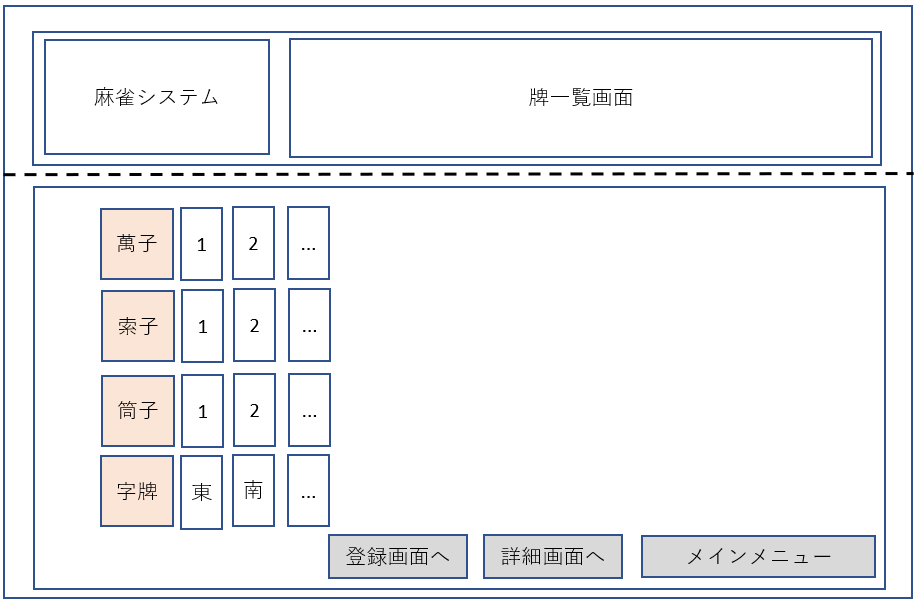
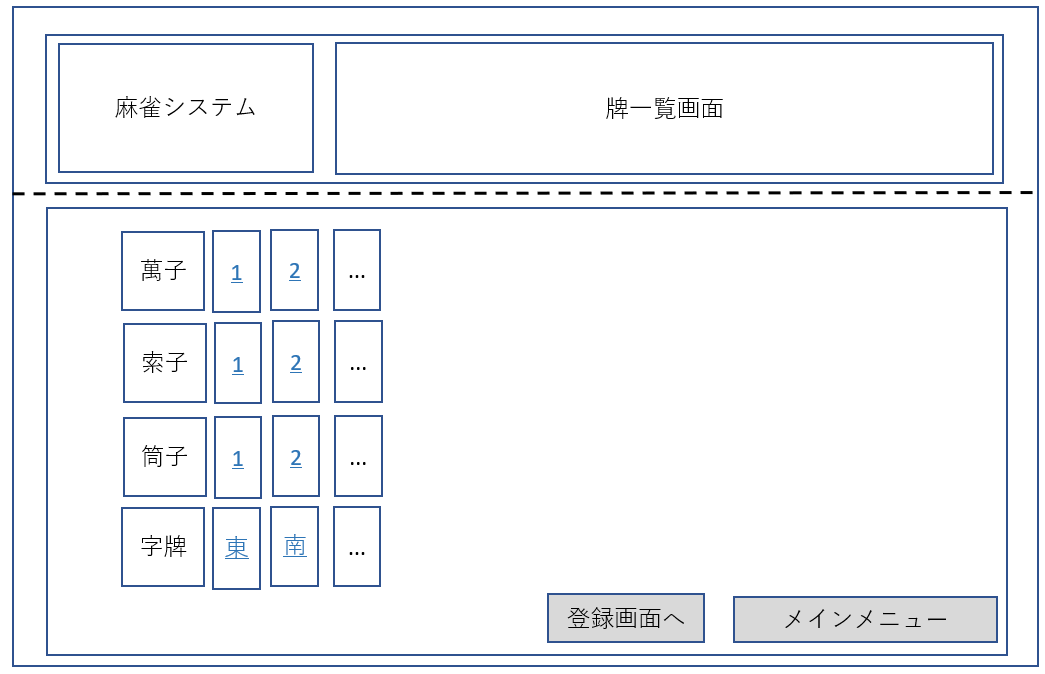
Issue#3、Issue#4 指摘修正。

Changed region(s): [[0.0, 0.0, 1.0, 1.0], [0.5776, 0.1192, 0.6992, 0.1788], [0.0912, 0.149, 0.2432, 0.1788]]

diff --git a/document/画面設計書.md b/document/画面設計書.md
@@ -2,6 +2,7 @@
 ### 目的 
 　麻雀システムの画面の機能について記述する。
 
+
 ### 変更履歴
 |更新年月日|更新内容|版数|
 |--|--|--|
@@ -33,6 +34,7 @@
 * 牌一覧画面  
 ![](牌一覧画面.png)
 
+
 * 牌登録画面  
 ![](牌登録画面.png)
 
@@ -42,47 +44,47 @@
 * 牌変更画面  
 ![](牌変更画面.png)
 
+* 牌登録画面(エラー発生時)  
+※牌変更画面でエラーが発生した場合も同様のレイアウトでエラーメッセージを表示する。
+![](牌変更画面(エラー).png)
+
 ### 画面項目一覧  
 
-|画面名|項目名|html名|形式|I/O|備考|
-|--|--|--|--|--|--|
-|全画面共通|システム名|System_Name|Item|ー|システム名を表示する。"麻雀システム"固定。|
-||画面名|Form_Name|Item|ー|現在表示している画面名を表示する。|
-|メインメニュー|牌一覧|To_PaiList|Button|ー|牌一覧画面を表示する。|
-|牌一覧画面|牌の種類|Pai_Types|Item|ー||
-||牌の種類(データ欄)|Pai_Types_Data|Data|O|牌の種類を表示する。|
-||牌の名前|Pai_Names|Item|ー||
-||牌の名前(データ欄)|Pai_Names_Data|Data|O|牌の名前を表示する。<br>拡張案⇒牌の図と牌コードを結びつけて牌の図を表示する。|
-||登録画面へ|To_PaiRegister|Button|ー|牌登録画面へ移動する。|
-||詳細画面へ|To_PaiDetail|Button|ー|牌詳細画面へ移動する。|
-||メインメニュー|To_MainMenu|Button|ー|メインメニューへ移動する。|
-|牌登録画面|牌の種類|Pai_Types|Item|I||
-||牌の種類(入力欄)|Pai_Types_Data|Data|I|牌の種類を入力する。<br>入力ルール以外を入力した場合、エラーを表示する。|
-||牌コード|Pai_Codes|Item|ー||
-||牌コード(入力欄)|Pai_Codes_Data|Data|I|牌コードを入力する。<br>入力ルール以外を入力した場合、エラーを表示する。|
-||牌の名前|Pai_Names|Item|ー||
-||牌の名前(入力欄)|Pai_Names_Data|Data|I|牌の名前を入力する。<br>入力ルール以外を入力した場合、エラーを表示する。|
-||登録|Register_Buttun|Button|ー|入力した情報をDBへ登録する。<br>牌コードが既に登録されていた場合はエラーを表示する。<br>入力欄が空白の場合はエラーを表示する。|
-|牌詳細画面|牌の種類|Pai_Types|Item|ー||
-||牌の種類(データ欄)|Pai_Types_Data|Data|O|牌の種類を表示する。|
-||牌コード|Pai_Codes|Item|ー||
-||牌コード(データ欄)|Pai_Codes_Data|Data|O|牌のコードを表示する。|
-||牌の名前|Pai_Names|Item|ー||
-||牌の名前(データ欄)|Pai_Names_Data|Data|O|牌の名前を表示する。|
-||削除|Pai_Delete_Button|Button|ー|押下した行の牌データをDBより削除する。|
-||変更|To_PaiAlter|Button|ー|牌変更画面へ移動する。|
-|牌変更画面|牌の種類|Pai_Types|Item|ー||
-||牌の種類(データ欄)|Pai_Types_Data|Data|I/O|牌の種類を入力する。<br>牌詳細画面で押下した行のデータを表示する。<br>入力ルール以外を入力した場合、エラーを表示する。|
-||牌コード|Pai_Codes|Item|ー||
-||牌コード(データ欄)|Pai_Codes_Data|Data|I/O|牌コードを入力する。<br>牌詳細画面で押下した行のデータを表示する。<br>入力ルール以外を入力した場合、エラーを表示する。|
-||牌の名前|Pai_Names|Item|ー||
-||牌の名前(データ欄)|Pai_Names_Data|Data|I/O|牌の名前を入力する。<br>牌詳細画面で押下した行のデータを表示する。<br>入力ルール以外を入力した場合、エラーを表示する。|
-||変更|Register_Button|Button|ー|変更した情報をDBへ登録する。<br>牌の種類毎の牌コードが既に登録されていた場合はエラーを表示する。<br>入力欄が空白の場合はエラーを表示する。|
+|画面名|項目名|項目英名|形式|I/O|必須かどうか|文字種|桁数|備考|
+|--|--|--|--|--|--|--|--|--|
+|全画面共通|システム名|ー|label|ー|ー|ー|10|システム名を表示する。"麻雀システム"固定。|
+||画面名|ー|label|ー|ー|ー|10|現在表示している画面名を表示する。|
+|メインメニュー|牌一覧|toPaiList|button|ー|ー|ー|ー|牌一覧画面を表示する。|
+|牌一覧画面|牌の種類(データ欄)|paiTypesValue|text|O|必須|文字|2|牌の種類を表示する。|
+||牌の名前(データ欄)|paiNamesValue|text|O|必須|文字|2|牌の名前を表示する。<br>詳細画面へのリンクとする。<br>拡張案⇒牌の図(牌のフォント)と牌コードを結びつけて牌の図を表示する。|
+||登録画面へ|toPaiRegister|button|ー|ー|ー|ー|牌登録画面へ移動する。|
+||詳細画面へ|toPaiDetail|button|ー|ー|ー|ー|牌詳細画面へ移動する。|
+||メインメニュー|toMainMenu|button|ー|ー|ー|ー|メインメニューへ移動する。|
+|牌登録画面|牌の種類|ー|label|ー|ー|ー|ー||
+||牌の種類(入力欄)|paiTypesValue|select|I|必須|文字|2|牌の種類を入力する。|
+||牌の名前|ー|label|ー|ー|ー|ー||
+||牌の名前(入力欄)|paiNamesValue|text|I|必須|文字|2|牌の名前を入力する。<br>入力ルール以外を入力した場合、エラーを表示する。|
+||登録|regButtun|button|ー|ー|ー|ー|入力した情報をDBへ登録する。<br>牌の種類が選択されていないまたは<br>牌の名前が空白の場合または牌コードが重複した場合はエラーを表示する。|
+|牌詳細画面|牌の種類|ー|label|ー|ー|ー|ー||
+||牌の種類(データ欄)|paiTypesValue|text|O|必須|文字|2|牌一覧画面で選択した牌の種類を表示する。(readonly)|
+||牌の名前|ー|label|ー|ー|ー|ー||
+||牌の名前(データ欄)|paiNamesValue|text|O|必須|文字|2|牌一覧画面で選択した牌の名前を表示する。(readonly)|
+||削除|delButton|button|ー|ー|ー|ー|牌データをDBより削除する。|
+||変更|toPaiAlter|button|ー|ー|ー|ー|牌変更画面へ移動する。|
+|牌変更画面|牌の種類|ー|label|ー|ー|ー|ー||
+||牌の種類(データ欄)|paiTypesValue|select|I/O|必須|文字|2|牌の種類を入力する。<br>牌詳細画面のデータを初期表示する。|
+||牌の名前|ー|label|ー|ー|ー|ー||
+||牌の名前(データ欄)|paiNamesValue|text|I/O|必須|文字|2|牌の名前を入力する。<br>牌詳細画面のデータを初期表示する。<br>入力ルール以外を入力した場合、エラーを表示する。|
+||変更|altButton|button|ー|ー|ー|ー|変更した情報をDBへ登録する。<br>牌の種類が選択されていないまたは<br>牌の名前が空白の場合または牌コードが重複した場合はエラーを表示する。|
 
 ###### 入力ルール  
+* 全体  
+  * 桁数を超えた場合、エラーを表示する。
 * 牌の種類  
   * 萬子、索子、筒子、字牌の4種類とする。
+  * セレクトボックスより選択する。
 * 牌コード
+  * 牌の種類及び牌の名前の入力で決まる。
   * 英字(M、S、P、J）+数字(1～9)とする。
   * 字牌は東南西北白發中の順で1～7とする。
   * 萬子の1⇒M1、字牌の南⇒J2
